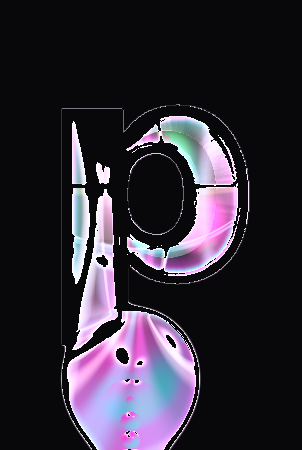
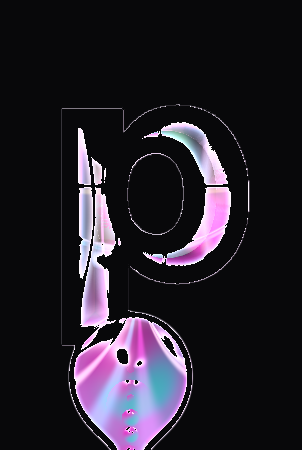
fix(glyphs): sharper softbox bars, thinner filament, wider edge fire
Keep 99ecc20 chrome face coverage while narrowing softbox streak cores,
thinning freeze pendant mid-filament, and widening light-tied cyan/magenta rim fire. Still short of concept match — loop stays armed.

Changed region(s): [[0.1788, 0.2489, 0.8046, 1.0]]

diff --git a/src/shade/shaders.ts b/src/shade/shaders.ts
@@ -147,9 +147,9 @@ float fieldAt(vec2 p, vec2 halfSize, float radius) {
     }
     if (field > 1e-5) {
       float metaDist = 0.32 / max(sqrt(field + 1e-4), 1e-3) - 0.52;
-      // Glyph: softMin bridges lip→filament without flooding the frame
+      // Glyph: tight softMin — preserve hairline filament
       float k = u_fieldMode > 0.5
-        ? mix(0.02, 0.05, viscosity)
+        ? mix(0.012, 0.028, viscosity)
         : mix(0.03, 0.2, mix(liquify, viscosity, 0.55));
       pane = softMin(pane, metaDist, k);
 
@@ -169,10 +169,10 @@ float fieldAt(vec2 p, vec2 halfSize, float radius) {
           if (b.y < botY) { botY = b.y; botC = b.xy; botR = b.z; }
         }
         if (topY - botY > 0.03) {
-          vec2 lipC = topC + vec2(0.0, max(0.04, topR * 0.65));
-          float midR = mix(topR, botR, 0.55) * mix(0.24, 0.11, viscosity);
-          float cap = sdCapsule(p, lipC, botC, max(midR, 0.009));
-          pane = softMin(pane, cap, mix(0.018, 0.04, viscosity));
+          vec2 lipC = topC + vec2(0.0, max(0.035, topR * 0.55));
+          float midR = mix(topR, botR, 0.55) * mix(0.16, 0.07, viscosity);
+          float cap = sdCapsule(p, lipC, botC, max(midR, 0.0065));
+          pane = softMin(pane, cap, mix(0.012, 0.024, viscosity));
         }
       }
     }
@@ -225,14 +225,22 @@ vec3 thinFilm(float thickness, float ndotv, float ndotl, float strength) {
 vec3 studioEnv(vec3 R) {
   vec3 rn = normalize(R + 1e-5);
   vec2 e = rn.xy / (abs(rn.z) + 0.38);
-  // Vertical softboxes (concept wet-mirror signature)
-  float softV = smoothstep(0.07, 0.006, abs(e.x + 0.28));
+  // Vertical softboxes — sharper cores, keep shoulder fill for face coverage
+  float softV = mix(
+    smoothstep(0.07, 0.006, abs(e.x + 0.28)),
+    pow(smoothstep(0.045, 0.003, abs(e.x + 0.28)), 1.8),
+    0.55
+  );
   softV *= smoothstep(-1.15, -0.1, e.y) * smoothstep(1.1, 0.15, e.y);
-  float softV2 = smoothstep(0.055, 0.005, abs(e.x - 0.42)) * 0.75;
+  float softV2 = mix(
+    smoothstep(0.055, 0.005, abs(e.x - 0.42)) * 0.75,
+    pow(smoothstep(0.035, 0.0025, abs(e.x - 0.42)), 1.85) * 0.75,
+    0.5
+  );
   softV2 *= smoothstep(-1.0, -0.05, e.y) * smoothstep(1.0, 0.2, e.y);
-  float softV3 = smoothstep(0.04, 0.008, abs(e.x + 0.62)) * 0.4;
-  float softH = smoothstep(0.05, 0.008, abs(e.y - 0.32)) * 0.55;
-  float softH2 = smoothstep(0.06, 0.012, abs(e.y + 0.55)) * 0.3;
+  float softV3 = smoothstep(0.04, 0.006, abs(e.x + 0.62)) * 0.4;
+  float softH = smoothstep(0.05, 0.007, abs(e.y - 0.32)) * 0.55;
+  float softH2 = smoothstep(0.06, 0.01, abs(e.y + 0.55)) * 0.3;
   float key = pow(max(dot(rn, normalize(vec3(-0.55, 0.78, 0.42))), 0.0), 72.0);
   float fillM = pow(max(dot(rn, normalize(vec3(0.72, -0.15, 0.35))), 0.0), 28.0);
   float fillC = pow(max(dot(rn, normalize(vec3(0.05, 0.35, 0.9))), 0.0), 18.0);
@@ -240,8 +248,8 @@ vec3 studioEnv(vec3 R) {
   float fillL = pow(max(dot(rn, normalize(vec3(0.45, 0.6, 0.5))), 0.0), 22.0);
 
   vec3 col = vec3(0.004, 0.006, 0.01);
-  col += vec3(1.35, 1.22, 1.1) * softV * 2.8;
-  col += vec3(0.55, 0.95, 1.35) * softV2 * 1.9;
+  col += vec3(1.4, 1.26, 1.12) * softV * 3.15;
+  col += vec3(0.52, 0.95, 1.38) * softV2 * 2.1;
   col += vec3(1.2, 0.55, 1.1) * softV3 * 1.2;
   col += vec3(1.15, 1.05, 0.95) * softH * 1.35;
   col += vec3(0.35, 1.15, 1.25) * softH2 * 0.9;
@@ -281,7 +289,7 @@ void spectralOffsets(
   out float lightDisp
 ) {
   // Abbe: higher dispAmt → lower V_d → wider η spread
-  float halfSpread = (baseIor - 1.0) * 0.028 * dispAmt;
+  float halfSpread = (baseIor - 1.0) * 0.036 * dispAmt;
   float nR = max(1.01, baseIor - halfSpread); // red longer λ → lower n
   float nG = max(1.01, baseIor);
   float nB = max(1.01, baseIor + halfSpread);
@@ -356,9 +364,9 @@ void main() {
   float edge = smoothstep(0.08, 0.0, abs(d));
   float inside = max(-d, 0.0);
   // Glyph: chrome lip wide enough for rich edge fire (still thinner than pane)
-  float bevelW = u_fieldMode > 0.5 ? mix(0.018, 0.042, u_bevel) : mix(0.055, 0.11, u_bevel);
+  float bevelW = u_fieldMode > 0.5 ? mix(0.024, 0.055, u_bevel) : mix(0.055, 0.11, u_bevel);
   float rim = 1.0 - smoothstep(0.0, bevelW, inside);
-  float rimSharp = pow(rim, 1.55);
+  float rimSharp = pow(rim, 1.35);
   float z = u_bevel * edge * 0.85;
   vec3 N;
   if (u_fieldMode > 0.5) {
@@ -444,17 +452,18 @@ void main() {
     color += envFace * softGate * 0.25 * u_glass;
 
     vec2 e = Rlight.xy / (abs(Rlight.z) + 0.35);
-    float streak = smoothstep(0.08, 0.003, abs(e.x + 0.22));
-    streak += 0.75 * smoothstep(0.06, 0.003, abs(e.x - 0.38));
-    streak += 0.45 * smoothstep(0.055, 0.008, abs(e.x + 0.52));
-    streak *= mix(0.7, 1.2, 0.3 + 0.7 * rimSharp);
-    float screenBar = smoothstep(0.12, 0.01, abs(p.x + 0.08)) * smoothstep(-0.55, 0.45, p.y);
-    float screenBar2 = smoothstep(0.1, 0.015, abs(p.x - 0.16)) * smoothstep(-0.4, 0.5, p.y);
-    streak = max(streak, max(screenBar * 0.95, screenBar2 * 0.65));
-    color += vec3(1.5, 1.32, 1.15) * streak * 0.85 * u_glass;
-    color += vec3(1.35, 0.28, 1.1) * smoothstep(0.1, 0.012, abs(e.x - 0.15)) * 0.55 * mix(1.0, 0.4, rimSharp);
-    color += vec3(0.15, 1.25, 1.4) * smoothstep(0.11, 0.015, abs(e.x + 0.02)) * 0.6 * mix(1.0, 0.4, rimSharp);
-    color += vec3(1.2, 1.15, 0.25) * smoothstep(0.09, 0.02, abs(e.y - 0.25)) * 0.35 * mix(0.9, 0.3, rimSharp);
+    // Sharper wet-mirror softbox bars (narrow cores, higher peak)
+    float streak = pow(smoothstep(0.055, 0.002, abs(e.x + 0.22)), 1.9);
+    streak += 0.8 * pow(smoothstep(0.042, 0.0018, abs(e.x - 0.38)), 2.0);
+    streak += 0.48 * pow(smoothstep(0.04, 0.004, abs(e.x + 0.52)), 1.8);
+    streak *= mix(0.75, 1.25, 0.3 + 0.7 * rimSharp);
+    float screenBar = pow(smoothstep(0.09, 0.006, abs(p.x + 0.08)), 1.95) * smoothstep(-0.55, 0.45, p.y);
+    float screenBar2 = pow(smoothstep(0.075, 0.008, abs(p.x - 0.16)), 1.85) * smoothstep(-0.4, 0.5, p.y);
+    streak = max(streak, max(screenBar * 1.05, screenBar2 * 0.7));
+    color += vec3(1.58, 1.38, 1.18) * streak * 1.2 * u_glass;
+    color += vec3(1.4, 0.24, 1.12) * pow(smoothstep(0.075, 0.008, abs(e.x - 0.15)), 1.7) * 0.62 * mix(1.0, 0.4, rimSharp);
+    color += vec3(0.12, 1.3, 1.45) * pow(smoothstep(0.08, 0.01, abs(e.x + 0.02)), 1.7) * 0.68 * mix(1.0, 0.4, rimSharp);
+    color += vec3(1.22, 1.15, 0.22) * pow(smoothstep(0.07, 0.014, abs(e.y - 0.25)), 1.5) * 0.4 * mix(0.9, 0.3, rimSharp);
 
     // Never emit pure equal-RGB white (SwiftShader clear filter); keep chrome tinted
     color = max(color, vec3(0.0));
@@ -495,17 +504,19 @@ void main() {
     float envStar = pow(max(dot(N, normalize(vec3(-0.45, 0.8, 0.5))), 0.0), 300.0);
     color += vec3(1.5, 1.4, 1.55) * envStar * 2.8 * li * mix(0.55, 1.0, rimSharp);
 
-    float fireAmt = u_dispersion * (0.95 + 1.2 * fres) * mix(0.45, 1.75, rimSharp);
-    fireAmt *= clamp(u_lightIntensity * 0.55, 0.8, 2.6);
-    fireAmt *= (0.6 + 0.75 * lightDisp);
-    float fireBand = pow(rim, 0.95) * mix(0.7, 1.35, rimSharp);
-    float fireT = fract(ndotl * 2.4 + fres * 0.9 + length(p) * 1.2 + rimSharp * 0.45);
-    float lightSide = smoothstep(-0.15, 0.9, ndotl);
-    color += edgeFire(mix(0.88, 0.12, lightSide), fireAmt * fireBand * 1.55);
-    color += edgeFire(mix(0.18, 0.78, lightSide), fireAmt * fireBand * 0.85 * max(lightDisp, 0.45));
-    color += edgeFire(fireT, fireAmt * edge * 0.7);
-    float outerFire = smoothstep(bevelW * 2.2, -aa * 0.5, d) * (1.0 - smoothstep(-aa, bevelW * 0.6, -d));
-    color += edgeFire(0.3 + 0.4 * lightSide, outerFire * u_dispersion * 0.9 * u_lightIntensity);
+    float fireAmt = u_dispersion * (1.05 + 1.3 * fres) * mix(0.5, 1.95, rimSharp);
+    fireAmt *= clamp(u_lightIntensity * 0.58, 0.85, 2.7);
+    fireAmt *= (0.65 + 0.85 * lightDisp);
+    float fireBand = pow(rim, 0.8) * mix(0.8, 1.45, rimSharp);
+    float fireT = fract(ndotl * 2.5 + fres * 0.95 + length(p) * 1.25 + rimSharp * 0.48);
+    float lightSide = smoothstep(-0.16, 0.92, ndotl);
+    color += edgeFire(mix(0.9, 0.1, lightSide), fireAmt * fireBand * 1.8);
+    color += edgeFire(mix(0.16, 0.8, lightSide), fireAmt * fireBand * 1.05 * max(lightDisp, 0.48));
+    color += edgeFire(fireT, fireAmt * edge * 0.9);
+    float outerFire = smoothstep(bevelW * 2.9, -aa * 0.6, d) * (1.0 - smoothstep(-aa, bevelW * 0.9, -d));
+    color += edgeFire(0.28 + 0.45 * lightSide, outerFire * u_dispersion * 1.2 * u_lightIntensity);
+    float halo = smoothstep(bevelW * 1.55, 0.0, inside) * (1.0 - rimSharp * 0.3);
+    color += edgeFire(mix(0.18, 0.82, lightSide), halo * u_dispersion * 0.7 * (0.5 + 0.5 * lightDisp));
 
     float film = u_filmThickness;
     if (film > 0.001) {

diff --git a/src/field/DripSim.ts b/src/field/DripSim.ts
@@ -351,60 +351,60 @@ export class DripSim {
 
       if (!freeze) em.stretchT += dt / maps.stretchDuration;
       const t = clamp01(em.stretchT);
-      // Freeze mid-stretch: keep a readable viscous neck (never near-pinch)
-      const freezeNeckFloor = freeze ? 0.42 : 0.04;
+      // Freeze mid-stretch: thinner elegant filament vs lumpy 0.42 floor
+      const freezeNeckFloor = freeze ? 0.32 : 0.04;
       em.neckR = Math.max(
         freezeNeckFloor,
-        1 - t * maps.neckThinRate * (0.35 + 0.65 * t) * (freeze ? 0.45 : 1),
+        1 - t * maps.neckThinRate * (0.35 + 0.65 * t) * (freeze ? 0.55 : 1),
       );
       const stretch = t * maps.stretchLen * halfH * em.stretchScale;
       const tipY = bottomY - stretch;
       const tipR = maps.dropR * minDim * (0.75 + 0.35 * emDrip) * (1.05 - 0.15 * t);
-      const neckY = mix(bottomY, tipY, 0.38);
+      const neckY = mix(bottomY, tipY, 0.4);
       const neckR =
-        tipR * mix(0.22, 0.58, emVisc) * Math.max(em.neckR, freezeNeckFloor);
+        tipR * mix(0.16, 0.4, emVisc) * Math.max(em.neckR, freezeNeckFloor);
 
       // Lip anchor — blends into glyph stem (root sits inside letterform)
       blobs.push({
         x: em.x + wobble * 0.2,
         y: bottomY + minDim * 0.06,
-        r: tipR * mix(1.15, 1.35, emVisc),
-        w: emDrip * 1.2,
+        r: tipR * mix(1.1, 1.28, emVisc),
+        w: emDrip * 1.18,
       });
       blobs.push({
-        x: em.x + wobble * 0.15,
+        x: em.x + wobble * 0.12,
         y: bottomY - stretch * 0.04,
-        r: tipR * mix(0.85, 1.05, emVisc),
-        w: emDrip * 1.05,
+        r: tipR * mix(0.7, 0.9, emVisc),
+        w: emDrip * 1.0,
       });
       blobs.push({
-        x: em.x + wobble * 0.1,
+        x: em.x + wobble * 0.08,
         y: neckY,
-        r: neckR * 0.85,
-        w: emDrip * Math.max(0.55, em.neckR),
+        r: neckR * 0.75,
+        w: emDrip * Math.max(0.5, em.neckR),
       });
 
       // Viscous filament — thin mid, swell to bulb (pendant profile)
       {
-        const segments = freeze ? 11 : 5;
+        const segments = freeze ? 12 : 5;
         for (let si = 1; si < segments; si++) {
           const ft = si / segments;
           // Classic pendant: thick lip → thin filament → bulb tip
           let profile: number;
-          if (ft < 0.55) {
-            profile = mix(0.48, 0.07, ft / 0.55);
+          if (ft < 0.5) {
+            profile = mix(0.42, 0.05, ft / 0.5);
           } else if (ft < 0.78) {
-            profile = mix(0.07, 0.055, (ft - 0.55) / 0.23);
+            profile = mix(0.05, 0.042, (ft - 0.5) / 0.28);
           } else {
-            profile = mix(0.055, 1.08, (ft - 0.78) / 0.22);
+            profile = mix(0.042, 1.08, (ft - 0.78) / 0.22);
           }
           const sy = mix(bottomY, tipY, ft);
           const sr = tipR * profile * Math.max(em.neckR, freezeNeckFloor);
           blobs.push({
-            x: em.x + wobble * 0.03,
+            x: em.x + wobble * 0.025,
             y: sy,
-            r: Math.max(sr, tipR * (freeze ? 0.07 : 0.05)),
-            w: emDrip * mix(1.1, 0.6, ft) * Math.max(0.5, em.neckR),
+            r: Math.max(sr, tipR * (freeze ? 0.045 : 0.05)),
+            w: emDrip * mix(1.05, 0.55, ft) * Math.max(0.45, em.neckR),
           });
         }
       }
@@ -412,8 +412,8 @@ export class DripSim {
       blobs.push({
         x: em.x,
         y: mix(bottomY, tipY, 0.55),
-        r: tipR * mix(0.12, 0.22, emVisc) * Math.max(em.neckR, freezeNeckFloor),
-        w: emDrip * 0.65 * Math.max(0.4, em.neckR),
+        r: tipR * mix(0.09, 0.16, emVisc) * Math.max(em.neckR, freezeNeckFloor),
+        w: emDrip * 0.55 * Math.max(0.35, em.neckR),
       });
       // Tip bulb
       blobs.push({

diff --git a/src/capture/BackdropCapture.ts b/src/capture/BackdropCapture.ts
@@ -192,20 +192,21 @@ export function createChromeStudioBackdrop(
   ctx.fillStyle = "#030306";
   ctx.fillRect(0, 0, w, h);
 
-  // Primary vertical softbox — narrow streak (not full-plate wash)
-  const soft = ctx.createLinearGradient(w * 0.26, 0, w * 0.34, 0);
+  // Primary vertical softbox — tighter core for wet-mirror bars
+  const soft = ctx.createLinearGradient(w * 0.275, 0, w * 0.325, 0);
   soft.addColorStop(0, "rgba(255,255,255,0)");
-  soft.addColorStop(0.4, "rgba(255,250,255,0.85)");
-  soft.addColorStop(0.5, "rgba(255,255,255,1)");
-  soft.addColorStop(0.6, "rgba(210,255,250,0.7)");
+  soft.addColorStop(0.35, "rgba(255,250,255,0.35)");
+  soft.addColorStop(0.48, "rgba(255,255,255,1)");
+  soft.addColorStop(0.52, "rgba(255,255,255,1)");
+  soft.addColorStop(0.65, "rgba(210,255,250,0.35)");
   soft.addColorStop(1, "rgba(255,255,255,0)");
   ctx.fillStyle = soft;
   ctx.fillRect(0, 0, w, h);
 
-  // Secondary softbox (right fill) — dimmer
-  const soft2 = ctx.createLinearGradient(w * 0.68, 0, w * 0.74, 0);
+  // Secondary softbox (right fill) — thinner
+  const soft2 = ctx.createLinearGradient(w * 0.69, 0, w * 0.73, 0);
   soft2.addColorStop(0, "rgba(255,255,255,0)");
-  soft2.addColorStop(0.5, "rgba(180,220,255,0.4)");
+  soft2.addColorStop(0.5, "rgba(180,220,255,0.45)");
   soft2.addColorStop(1, "rgba(255,255,255,0)");
   ctx.fillStyle = soft2;
   ctx.fillRect(0, 0, w, h);

diff --git a/demo/frames/README.md b/demo/frames/README.md
@@ -32,6 +32,15 @@ When Blender is available, replace atlas PNGs with extruded/remeshed heightfield
 - Landing: `/glyph-qa`
 - Capture: `node scripts/capture-glyph-qa.mjs http://localhost:52780`
 
+## Iteration 13 (wet-mirror bars + thin filament)
+
+- Sharper softbox streak cores (pow falloff) over 99ecc20 chrome face base
+- Wider light-tied cyan↔magenta edge fire (bevel + halo + Abbe spread)
+- Thinner freeze filament (neck floor 0.32, mid profile ~0.05) + tighter glyph softMin/capsule
+- Studio plate softbox gradients narrowed for harder bars
+
+**Status:** ❌ not READY — chromeSansP closer on bar contrast vs soft neon, but still short of concept wet-mirror faces; scriptProP filament/chrome coverage still lag ENj9B; edge fire wider but not concept-wide. Loop stays armed.
+
 ## Iteration 12 (wet-mirror push)
 
 - Position-bent studio env + screen-space softbox plate on glyph faces